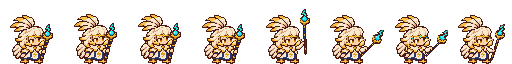
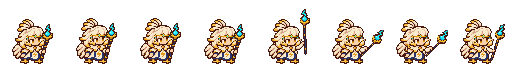
토라 볏 깃털 길이 줄임

diff --git a/개발일지/2026-11-27/이미지.md b/개발일지/2026-11-27/이미지.md
@@ -441,3 +441,10 @@
 - 숫자: 머리 꼭대기 줄 15 → G 19, H 20. 높이 49 → G 45, H 44.
 - 결과: 얼굴 아이콘에 턱까지 들어옴(흉내). 게임 화면에서는 확인 안 함. 사용자 확인 대기, img/p는 안 바꿈.
 - 그림: img/codex/redo_anim/shortcrest_compare.png
+
+## [디자인] 토라 볏 G로 교체 ⭐
+- 한 것: img/p/thunderbird.png와 thunderbird_anim.png의 볏을 깃털 길이를 줄인 G안으로 바꿈.
+- 의도: 사용자 "G (깃 길게)"
+- 숫자: 머리 꼭대기 줄 15 → 19.
+- 결과: 파일 교체. 게임의 큰 아이콘 확인은 UI에 부탁.
+- 그림: img/codex/redo_anim/shortcrest_compare.png
